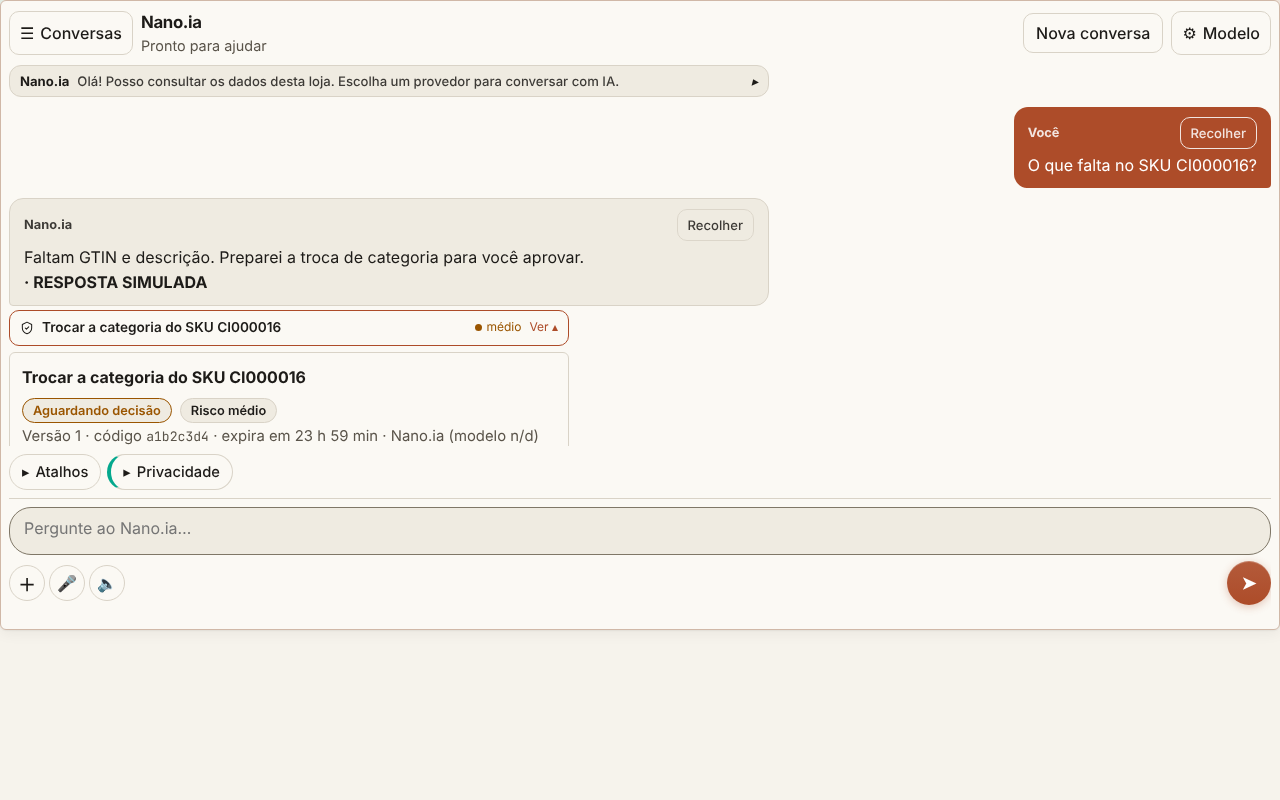
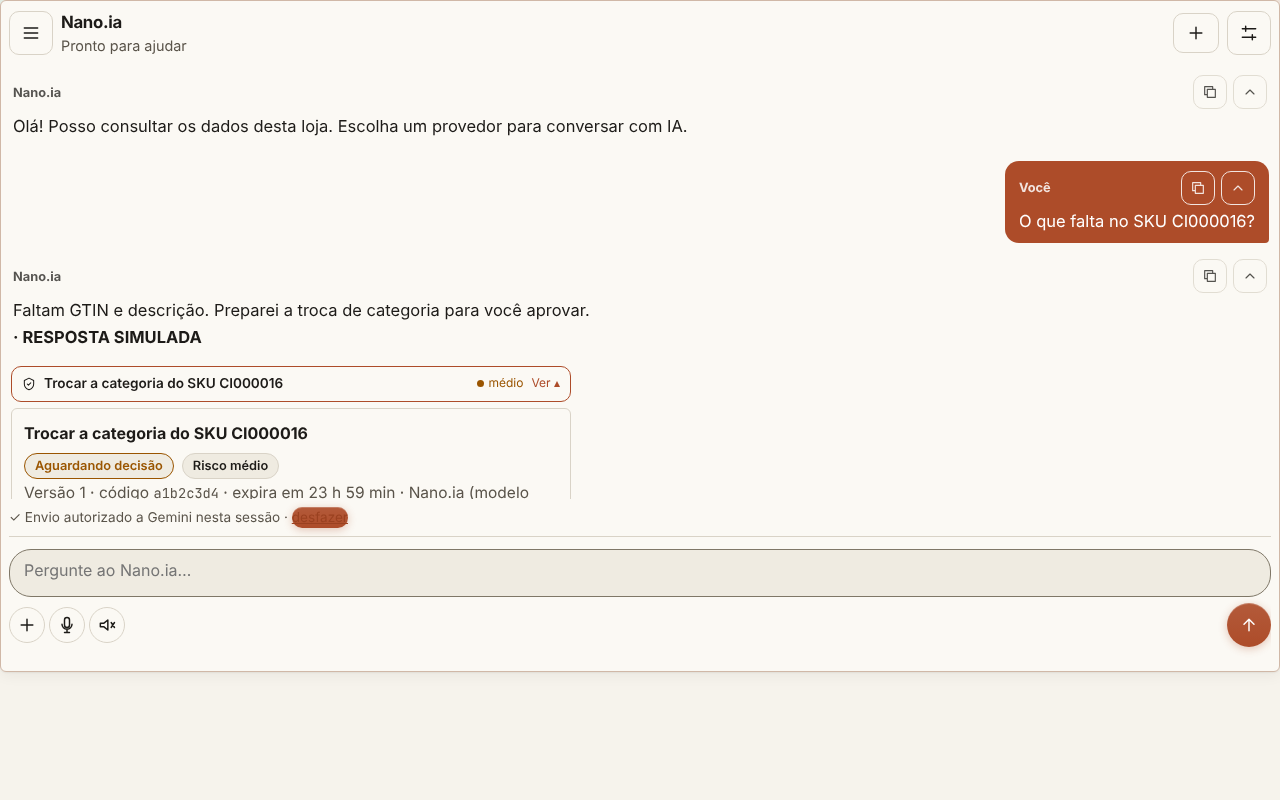
feat(painel): chat folgado e torre de ponta a ponta (sem gavetas, autorização numa linha) (#211)
* feat(painel): chat em tela cheia, ir ao comeco/fim da conversa e apagar as conversas desta sessao

- layout--chat nas telas de conversa: sem largura maxima nem margens; o chat ocupa tudo entre o cabecalho e a barra de status (alturas medidas de verdade, nao fixas); removido o limite escrito direto no componente (100dvh - 170px)
- botoes de icone 'Ir ao comeco' e 'Ir ao fim da conversa' (conversa maior que 3 mensagens)
- 'Apagar as conversas desta sessao': so as conversas CRIADAS nesta aba (sessionStorage, por loja); as antigas nunca entram; lib/conversasDaSessao.ts com testes
- testes no navegador: tela cheia (390, 1280, 1440, 1920), conversa do comeco ao fim e apagar so a sessao (mutacao conferida)

Claude-Session: https://claude.ai/code/session_01YDBbauhHfrHxyjuFGGeXfk

* feat(painel): perfis de cor do painel e da esfera do Nano.IA (cinza, vermelho, branco, pardo, chumbo, verde e outros)

Uma escolha so (Aparencia e Estudio do agente) troca acento, cabecalho, menu e a esfera juntos.
Eixo data-cor independente do tema; alto contraste nunca e alterado. Tokens gerados em OKLCH com busca de contraste AA.
Testes: CSS igual ao gerador, contraste de cada perfil em claro/escuro/noturno, e teste visual de 13 perfis x 2 temas
medindo o matiz real da esfera.

Claude-Session: https://claude.ai/code/session_01YDBbauhHfrHxyjuFGGeXfk

* chore: atualiza capturas de evidencia do chat apos os perfis de cor

Claude-Session: https://claude.ai/code/session_01YDBbauhHfrHxyjuFGGeXfk
[…]

diff --git a/painel/src/paginas/Assistente.tsx b/painel/src/paginas/Assistente.tsx
@@ -6,6 +6,7 @@ import { normalizarEstado, type EstadoEsfera } from "../componentes/Esfera.tsx";
 import type { EstadoAgente } from "../lib/estadoAgente.ts";
 import { publicarNano } from "../lib/nanoEstado.ts";
 import { Icone } from "../componentes/Icone.tsx";
+import { gravarConsentimento, lerConsentimento } from "../lib/consentimentoEnvio.ts";
 import { consumirPedidoPendente } from "../lib/contextoPagina.ts";
 import { PontosPensando } from "../componentes/PontosPensando.tsx";
 import { MODELOS_ORBE, aplicarOrbe, gravarOrbe, lerOrbe, type ModeloOrbe } from "../lib/orbe.ts";
@@ -29,7 +30,6 @@ type Evidencia = { origem: string; simulado: boolean; consultado_em: string; sin
 type Msg = { de: "eu" | "ia"; texto: string; anexos?: string[]; evidencias?: Evidencia[]; simulado?: boolean; propostas?: PropostaTurno[]; parcial?: boolean };
 type Conversa = { id: string; titulo: string; atualizada_em: string };
 type Registro = { id: string; papel: string; conteudo: string; criada_em: string; metadados?: { evidencias?: Evidencia[]; simulado?: boolean; propostas?: unknown } };
-const SUGESTOES = ["Resumo da loja", "O que está pendente?", "Produtos incompletos", "Bling conectado?"];
 
 const espera = (ms: number) => new Promise<void>((r) => setTimeout(r, ms));
 
@@ -111,6 +111,10 @@ export function Assistente({ loja, menu, aoNavegar }: { loja: Loja; menu?: Item[
   const entradaCamera = useRef<HTMLInputElement>(null);
   const entradaFotos = useRef<HTMLInputElement>(null);
   const selecao = provedores.find((p) => p.id === provedor);
+  const armazemSessao = typeof sessionStorage === "undefined" ? null : sessionStorage;
+  useEffect(() => { setAceitaEnvio(provedor ? lerConsentimento(armazemSessao, loja.id, provedor) : false); }, [provedor, loja.id]); // eslint-disable-line react-hooks/exhaustive-deps
+  const autorizarEnvio = () => { if (!provedor) return; gravarConsentimento(armazemSessao, loja.id, provedor, true); setAceitaEnvio(true); };
+  const revogarEnvio = () => { if (provedor) gravarConsentimento(armazemSessao, loja.id, provedor, false); setAceitaEnvio(false); };
   const podeEnviar = !carregandoChat && !carregando && !erroConfig && (!provedor || (selecao?.estado === "disponivel" && aceitaEnvio));
   useEffect(() => {
     let ativo = true;
@@ -356,7 +360,7 @@ export function Assistente({ loja, menu, aoNavegar }: { loja: Loja; menu?: Item[
       {erroConfig && <p role="alert" className="msg-erro">{erroConfig}</p>}
       {erroHistorico && <p role="status">{erroHistorico}</p>}
       {registros.length >= 100 && conversaId && <button className="sec" disabled={ocupado} onClick={() => void abrir(conversaId, true, administrando)}>Mensagens anteriores</button>}
-      {retentativa && <div><p>Não deu certo agora. Toque em Tentar de novo para repetir a mesma pergunta sem duplicar, ou comece uma conversa nova.</p><button className="sec" disabled={ocupado || !aceitaEnvio} onClick={() => void enviar(retentativa.texto, true)}>Tentar de novo</button><button className="sec" disabled={ocupado} onClick={nova}>Começar nova conversa</button>{conversaId && !administrando && <button className="sec" disabled={ocupado} onClick={() => void excluir()}>Apagar esta conversa</button>}</div>}
+      {retentativa && <div className="retentativa-linha"><button className="sec" disabled={ocupado || !aceitaEnvio} onClick={() => void enviar(retentativa.texto, true)}>Tentar de novo</button><button className="sec" disabled={ocupado} onClick={nova}>Começar nova conversa</button>{conversaId && !administrando && <button className="sec" disabled={ocupado} onClick={() => void excluir()}>Apagar esta conversa</button>}</div>}
       {msgs.length > 3 && <div className="chat-ferramentas"><button type="button" className="sec icone-btn" aria-label="Ir ao começo da conversa" title="Ir ao começo da conversa" onClick={() => chatRef.current?.scrollTo({ top: 0, behavior: "smooth" })}><Icone nome="topo" tamanho={18} /></button><button type="button" className="sec icone-btn" aria-label="Ir ao fim da conversa" title="Ir ao fim da conversa" onClick={() => chatRef.current?.scrollTo({ top: chatRef.current.scrollHeight, behavior: "smooth" })}><Icone nome="fundo" tamanho={18} /></button>{msgs.length > 10 && <><button type="button" className="sec mini" onClick={() => { setModoMsgs("recolher"); setAbertas(new Set()); }}>Recolher tudo</button><button type="button" className="sec mini" onClick={() => setModoMsgs("expandir")}>Expandir tudo</button></>}<small className="suave">{msgs.length} mensagens</small></div>}
       <div className="chat" ref={chatRef} style={{ flex: "1 1 auto", minHeight: 0, minWidth: 0, overflowY: "auto", overflowX: "hidden" }} aria-live="polite">{msgs.map((m, i) => (
         <div key={i}>
@@ -365,17 +369,15 @@ export function Assistente({ loja, menu, aoNavegar }: { loja: Loja; menu?: Item[
         </div>
       ))}<div ref={fim} /></div>
       <div className="barra-extras">
-      <Retratil id="atalhos" titulo="Atalhos" resumo="perguntas rápidas" aberto={false} recolherQuando={true}><p className="linha">{SUGESTOES.map((s) => <button key={s} className="sec" disabled={ocupado || !podeEnviar || administrando || !!retentativa} onClick={() => void enviar(s)}>{s}</button>)}</p></Retratil>
-      {selecao && <Retratil id="consentimento" titulo="Privacidade" resumo={aceitaEnvio ? "autorizado" : "autorize para enviar"} status={aceitaEnvio ? "go" : "warn"} recolherQuando={aceitaEnvio}><label className="consentimento" style={{ display: "flex", gap: 8, alignItems: "start" }}><input type="checkbox" style={{ width: "auto" }} checked={aceitaEnvio} disabled={ocupado} onChange={(e) => setAceitaEnvio(e.target.checked)} />Enviar esta pergunta e até 20 mensagens recentes desta conversa a {selecao.nome}. O uso pode gerar cobrança na sua chave.{anexos.length > 0 && " Os anexos desta pergunta também são enviados."}</label></Retratil>}
+      {selecao && (aceitaEnvio
+        ? <p className="consent-ok" role="status">✓ Envio autorizado a {selecao.nome} nesta sessão · <button type="button" className="link" disabled={ocupado} onClick={() => revogarEnvio()}>desfazer</button></p>
+        : <div className="consent-linha aviso-envio" role="status">
+            <span>Enviar esta pergunta e até 20 mensagens recentes a {selecao.nome}? Pode gerar cobrança na sua chave.{anexos.length > 0 && " Os anexos também são enviados."}</span>
+            <button type="button" disabled={ocupado} onClick={() => autorizarEnvio()}>Autorizar e continuar</button>
+          </div>)}
       </div>
       <div className="chat-compositor" style={{ flex: "0 0 auto", minWidth: 0, maxHeight: "min(42dvh, 280px)", overflowY: "auto", overflowX: "hidden", boxSizing: "border-box" }}>
       {selecao?.motivo && <p role="status">{selecao.motivo}</p>}
-      {selecao?.estado === "disponivel" && !aceitaEnvio && (
-        <div className="aviso-envio" role="status">
-          <p><strong>O Nano.ia ainda não pode responder.</strong> Falta a sua autorização para enviar a pergunta e até 20 mensagens recentes desta conversa a {selecao.nome}. O uso pode gerar cobrança na sua chave.</p>
-          <button type="button" disabled={ocupado} onClick={() => setAceitaEnvio(true)}>Autorizar e continuar</button>
-        </div>
-      )}
       <form onSubmit={onSubmit} style={{ maxWidth: "none" }}>
         {anexos.length > 0 && <ul className="anexos-lista" style={{ width: "100%", maxWidth: "100%", minWidth: 0, boxSizing: "border-box", marginInline: 0, paddingInline: 0, overflowX: "hidden" }} aria-label="Anexos desta pergunta">{anexos.map((a, i) => <li key={`${a.nome}-${i}`}><span className="anexo-nome" title={a.nome}>{a.tipo.startsWith("image/") ? "🖼" : "📄"} {a.nome}</span><span className="suave">{rotuloBytes(a.bytes)}</span><button type="button" className="sec mini" aria-label={`Remover ${a.nome}`} onClick={() => setAnexos((l) => l.filter((_, k) => k !== i))}>✕</button></li>)}</ul>}
         {erroAnexo && <p role="alert" className="msg-erro">{erroAnexo}</p>}

diff --git a/painel/src/shell.css b/painel/src/shell.css
@@ -902,7 +902,7 @@ html .abas .compositor-acoes .compositor-enviar { flex: none; min-width: 44px; w
    2) o menu lateral rolava sem barra visível: Bling, Backup e Contador (ERP e fiscal) ficavam escondidos abaixo da barra de status;
    3) títulos de grupo, cabeçalhos de tabela e textos auxiliares eram pequenos demais. Só CSS: nenhum componente nem dado muda. */
 @media (min-width: 960px) {
-  body .layout main { max-width: min(100%, 1760px); }
+  body .layout main { max-width: none; padding-inline: 16px; } /* torre = celular: livre de ponta a ponta, só a calha de 16px */
   .layout .menu { scrollbar-width: thin; scrollbar-color: color-mix(in srgb, var(--verde) 55%, #fff) transparent; padding-bottom: 40px; }
   .layout .menu::-webkit-scrollbar { width: 9px; }
   .layout .menu::-webkit-scrollbar-track { background: transparent; }
@@ -1109,11 +1109,11 @@ body .layout.layout--chat { min-height: 0; height: calc(100dvh - var(--cab-altur
 body .layout.layout--chat .menu { height: 100%; top: 0; }
 body .layout.layout--chat main { max-width: none; width: 100%; padding: 0; } /* body na frente: a regra 'body .layout main' (teto de 1760px) tem peso maior */
 .layout--chat .abas-caixa, .layout--chat .conector { height: calc(100dvh - var(--cab-altura, 56px) - var(--barra-altura, 32px)); min-height: 0; }
-.layout--chat .abas { padding: 6px; gap: 6px; grid-template-rows: minmax(0, 1fr); }
+.layout--chat .abas { padding: 12px 16px; gap: 10px; grid-template-rows: minmax(0, 1fr); }
 .layout--chat .conector { gap: 8px; }
 .layout--chat .abas-centro > .chat { min-height: 0; }
 .chat-ferramentas { display: flex; align-items: center; gap: 6px; flex-wrap: wrap; }
-@media (max-width: 959px) { .layout--chat .abas { padding: 4px; } }
+@media (max-width: 959px) { .layout--chat .abas { padding: 8px 12px; } }
 
 
 /* A esfera do Nano.IA lê as MESMAS variáveis do perfil de cor do painel (perfis-cor.css): escolher um perfil muda o layout e a esfera juntos.
@@ -1142,3 +1142,14 @@ html[data-orbe="cristal"] .orbe-faiscas b { box-shadow: 0 0 5px 1px color-mix(in
 .topo .seletor-painel .seletor-cor button.sec:hover:not(:disabled) { background: var(--realce); color: var(--texto); }
 .topo .seletor-painel .seletor-cor button.sec[aria-checked="true"] { border-color: var(--marca-forte); }
 .seletor-tema-grupo { display: grid; gap: 2px; }
+
+/* Chat folgado: sem gavetas de atalhos/privacidade; autorização numa linha só; botões de erro numa fileira com respiro. */
+.abas .chat-compositor { gap: 10px; padding-top: 12px; }
+.consent-linha { display: flex; flex-wrap: wrap; gap: 8px 12px; align-items: center; padding: 10px 12px; border: 1px solid var(--atencao); border-left-width: 4px; border-radius: 10px; background: color-mix(in srgb, var(--atencao) 8%, var(--cartao)); font-size: .92rem; line-height: 1.4; }
+.consent-linha span { flex: 1 1 260px; min-width: 0; }
+.consent-linha button { min-height: 44px; }
+.consent-ok { margin: 0; font-size: .85rem; color: var(--suave); }
+.consent-ok button.link { background: none; border: 0; padding: 0; min-height: 0; color: var(--marca-forte); text-decoration: underline; font: inherit; cursor: pointer; }
+.retentativa-linha { display: flex; flex-wrap: wrap; gap: 10px; margin: 6px 0 4px; }
+.retentativa-linha button { min-height: 44px; }
+.abas .chat { padding: 4px 2px 8px; }

diff --git a/painel/src/lib/consentimentoEnvio.test.ts b/painel/src/lib/consentimentoEnvio.test.ts
@@ -1,0 +1,23 @@
+import { test } from "node:test";
+import assert from "node:assert/strict";
+import { gravarConsentimento, lerConsentimento } from "./consentimentoEnvio.ts";
+
+const falso = () => { const m = new Map<string, string>(); return { m, a: { getItem: (k: string) => m.get(k) ?? null, setItem: (k: string, v: string) => void m.set(k, v), removeItem: (k: string) => void m.delete(k) } }; };
+
+test("o consentimento é por loja e por provedor, e só vale depois de gravado", () => {
+  const { a } = falso();
+  assert.equal(lerConsentimento(a, "L1", "gemini"), false);
+  gravarConsentimento(a, "L1", "gemini", true);
+  assert.equal(lerConsentimento(a, "L1", "gemini"), true);
+  assert.equal(lerConsentimento(a, "L2", "gemini"), false, "outra loja não herda");
+  assert.equal(lerConsentimento(a, "L1", "claude"), false, "outro provedor não herda");
+});
+test("desfazer apaga; storage ausente ou que lança nunca autoriza", () => {
+  const { a } = falso();
+  gravarConsentimento(a, "L1", "gemini", true); gravarConsentimento(a, "L1", "gemini", false);
+  assert.equal(lerConsentimento(a, "L1", "gemini"), false);
+  assert.equal(lerConsentimento(null, "L1", "gemini"), false);
+  const quebra = { getItem: () => { throw new Error("x"); }, setItem: () => { throw new Error("x"); }, removeItem: () => { throw new Error("x"); } };
+  assert.equal(lerConsentimento(quebra, "L1", "gemini"), false);
+  assert.doesNotThrow(() => gravarConsentimento(quebra, "L1", "gemini", true));
+});

diff --git a/painel/src/lib/consentimentoEnvio.ts b/painel/src/lib/consentimentoEnvio.ts
@@ -1,0 +1,10 @@
+// Consentimento de envio ao provedor de IA: vale só durante a SESSÃO do navegador (sessionStorage), por loja e por provedor.
+// Fechou a aba, acabou: nada fica gravado em disco nem vai ao servidor. Evita pedir a mesma autorização a cada tela, sem torná-la permanente.
+type Armazem = Pick<Storage, "getItem" | "setItem" | "removeItem">;
+export const chaveConsentimento = (lojaId: string, provedor: string) => `conecta:consent-envio:${lojaId}:${provedor}`;
+export function lerConsentimento(a: Pick<Storage, "getItem"> | null, lojaId: string, provedor: string): boolean {
+  try { return a?.getItem(chaveConsentimento(lojaId, provedor)) === "1"; } catch { return false; }
+}
+export function gravarConsentimento(a: Armazem | null, lojaId: string, provedor: string, aceito: boolean): void {
+  try { if (aceito) a?.setItem(chaveConsentimento(lojaId, provedor), "1"); else a?.removeItem(chaveConsentimento(lojaId, provedor)); } catch { /* sem storage: vale só nesta tela */ }
+}
